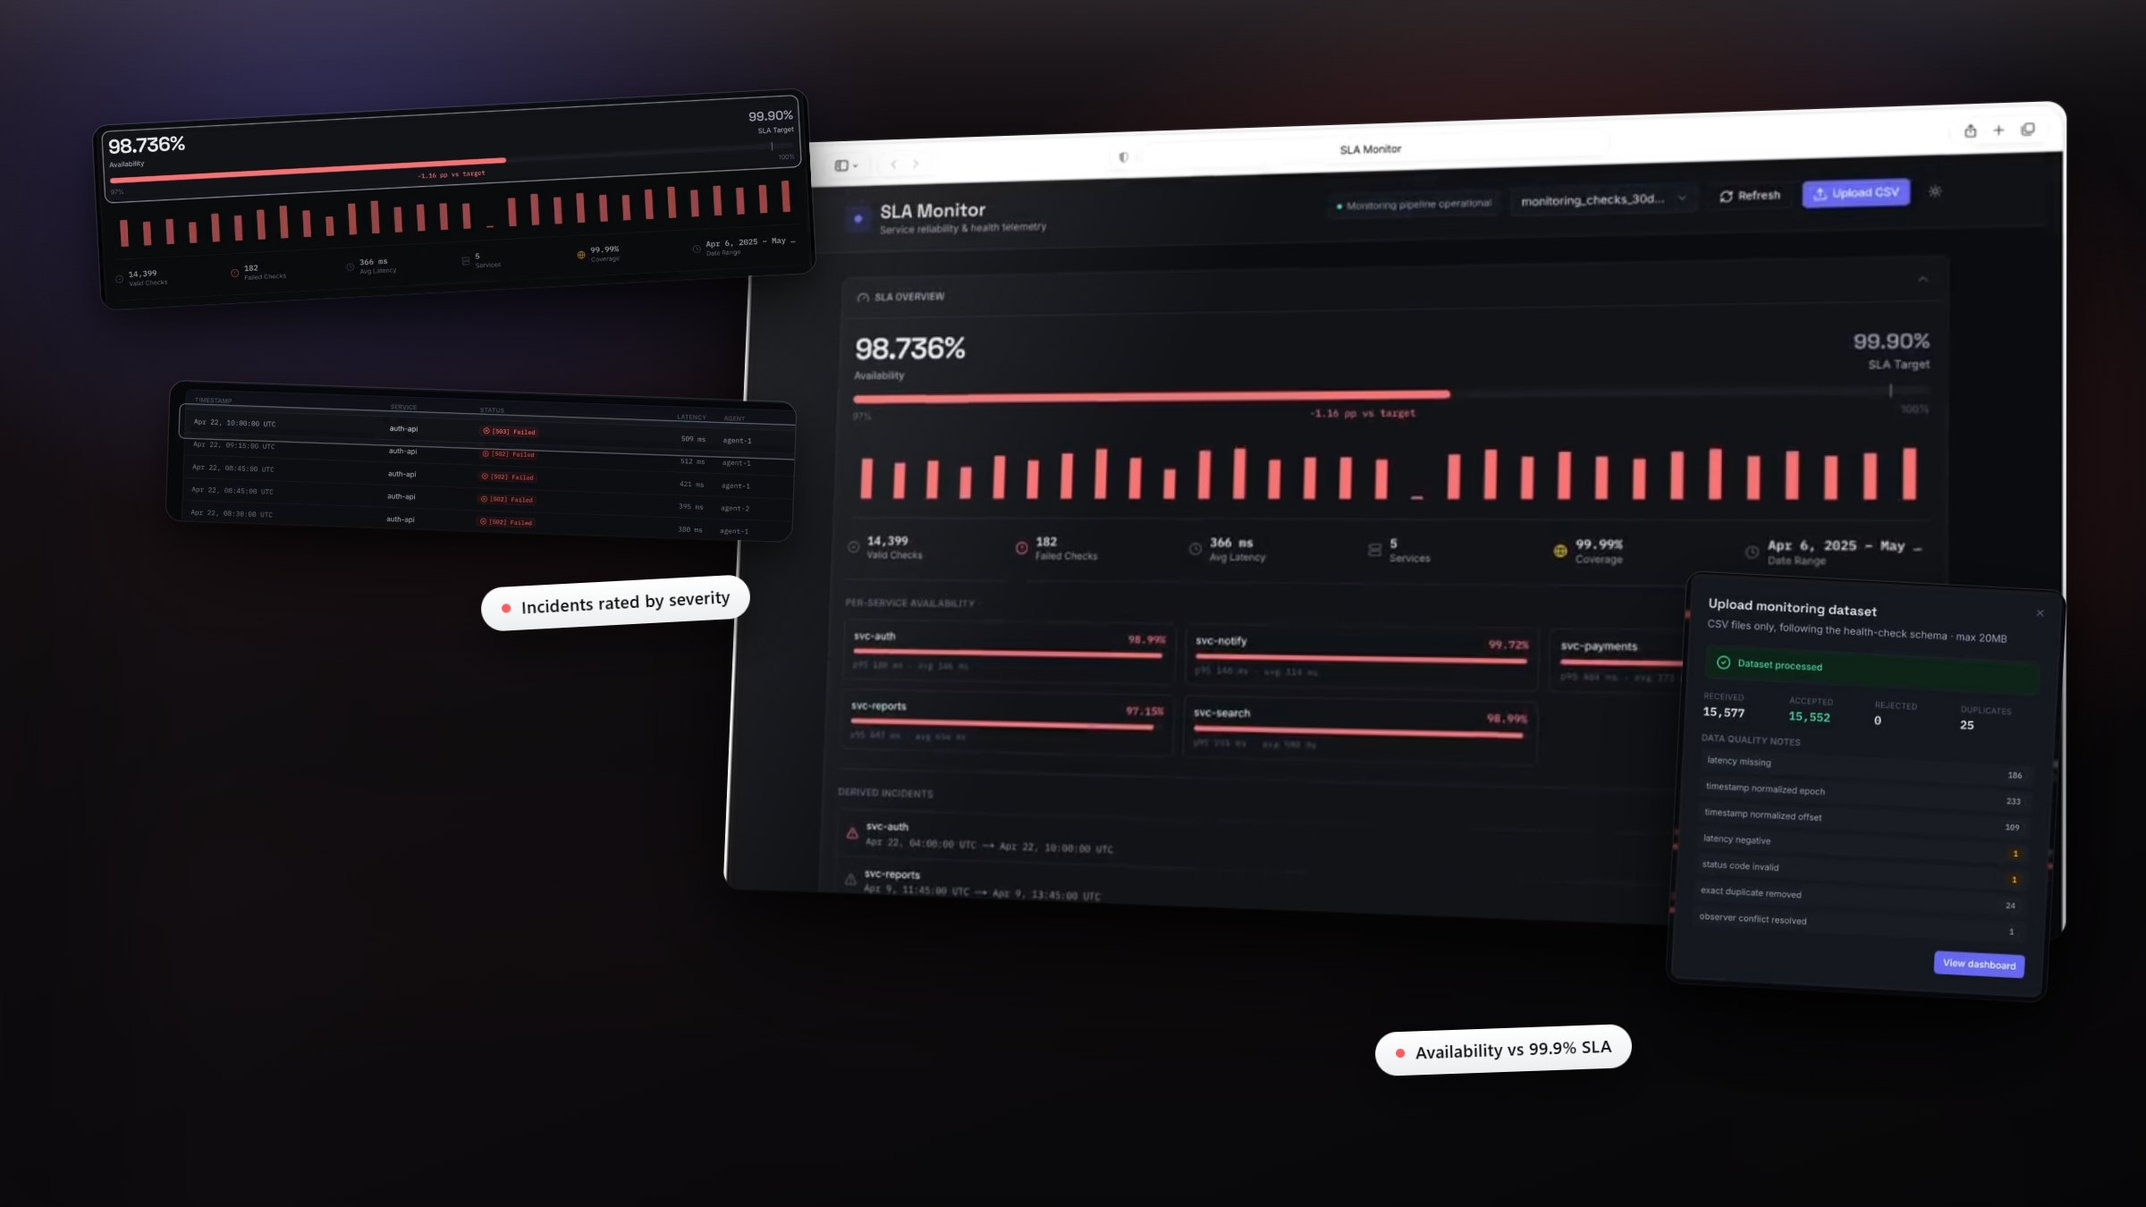
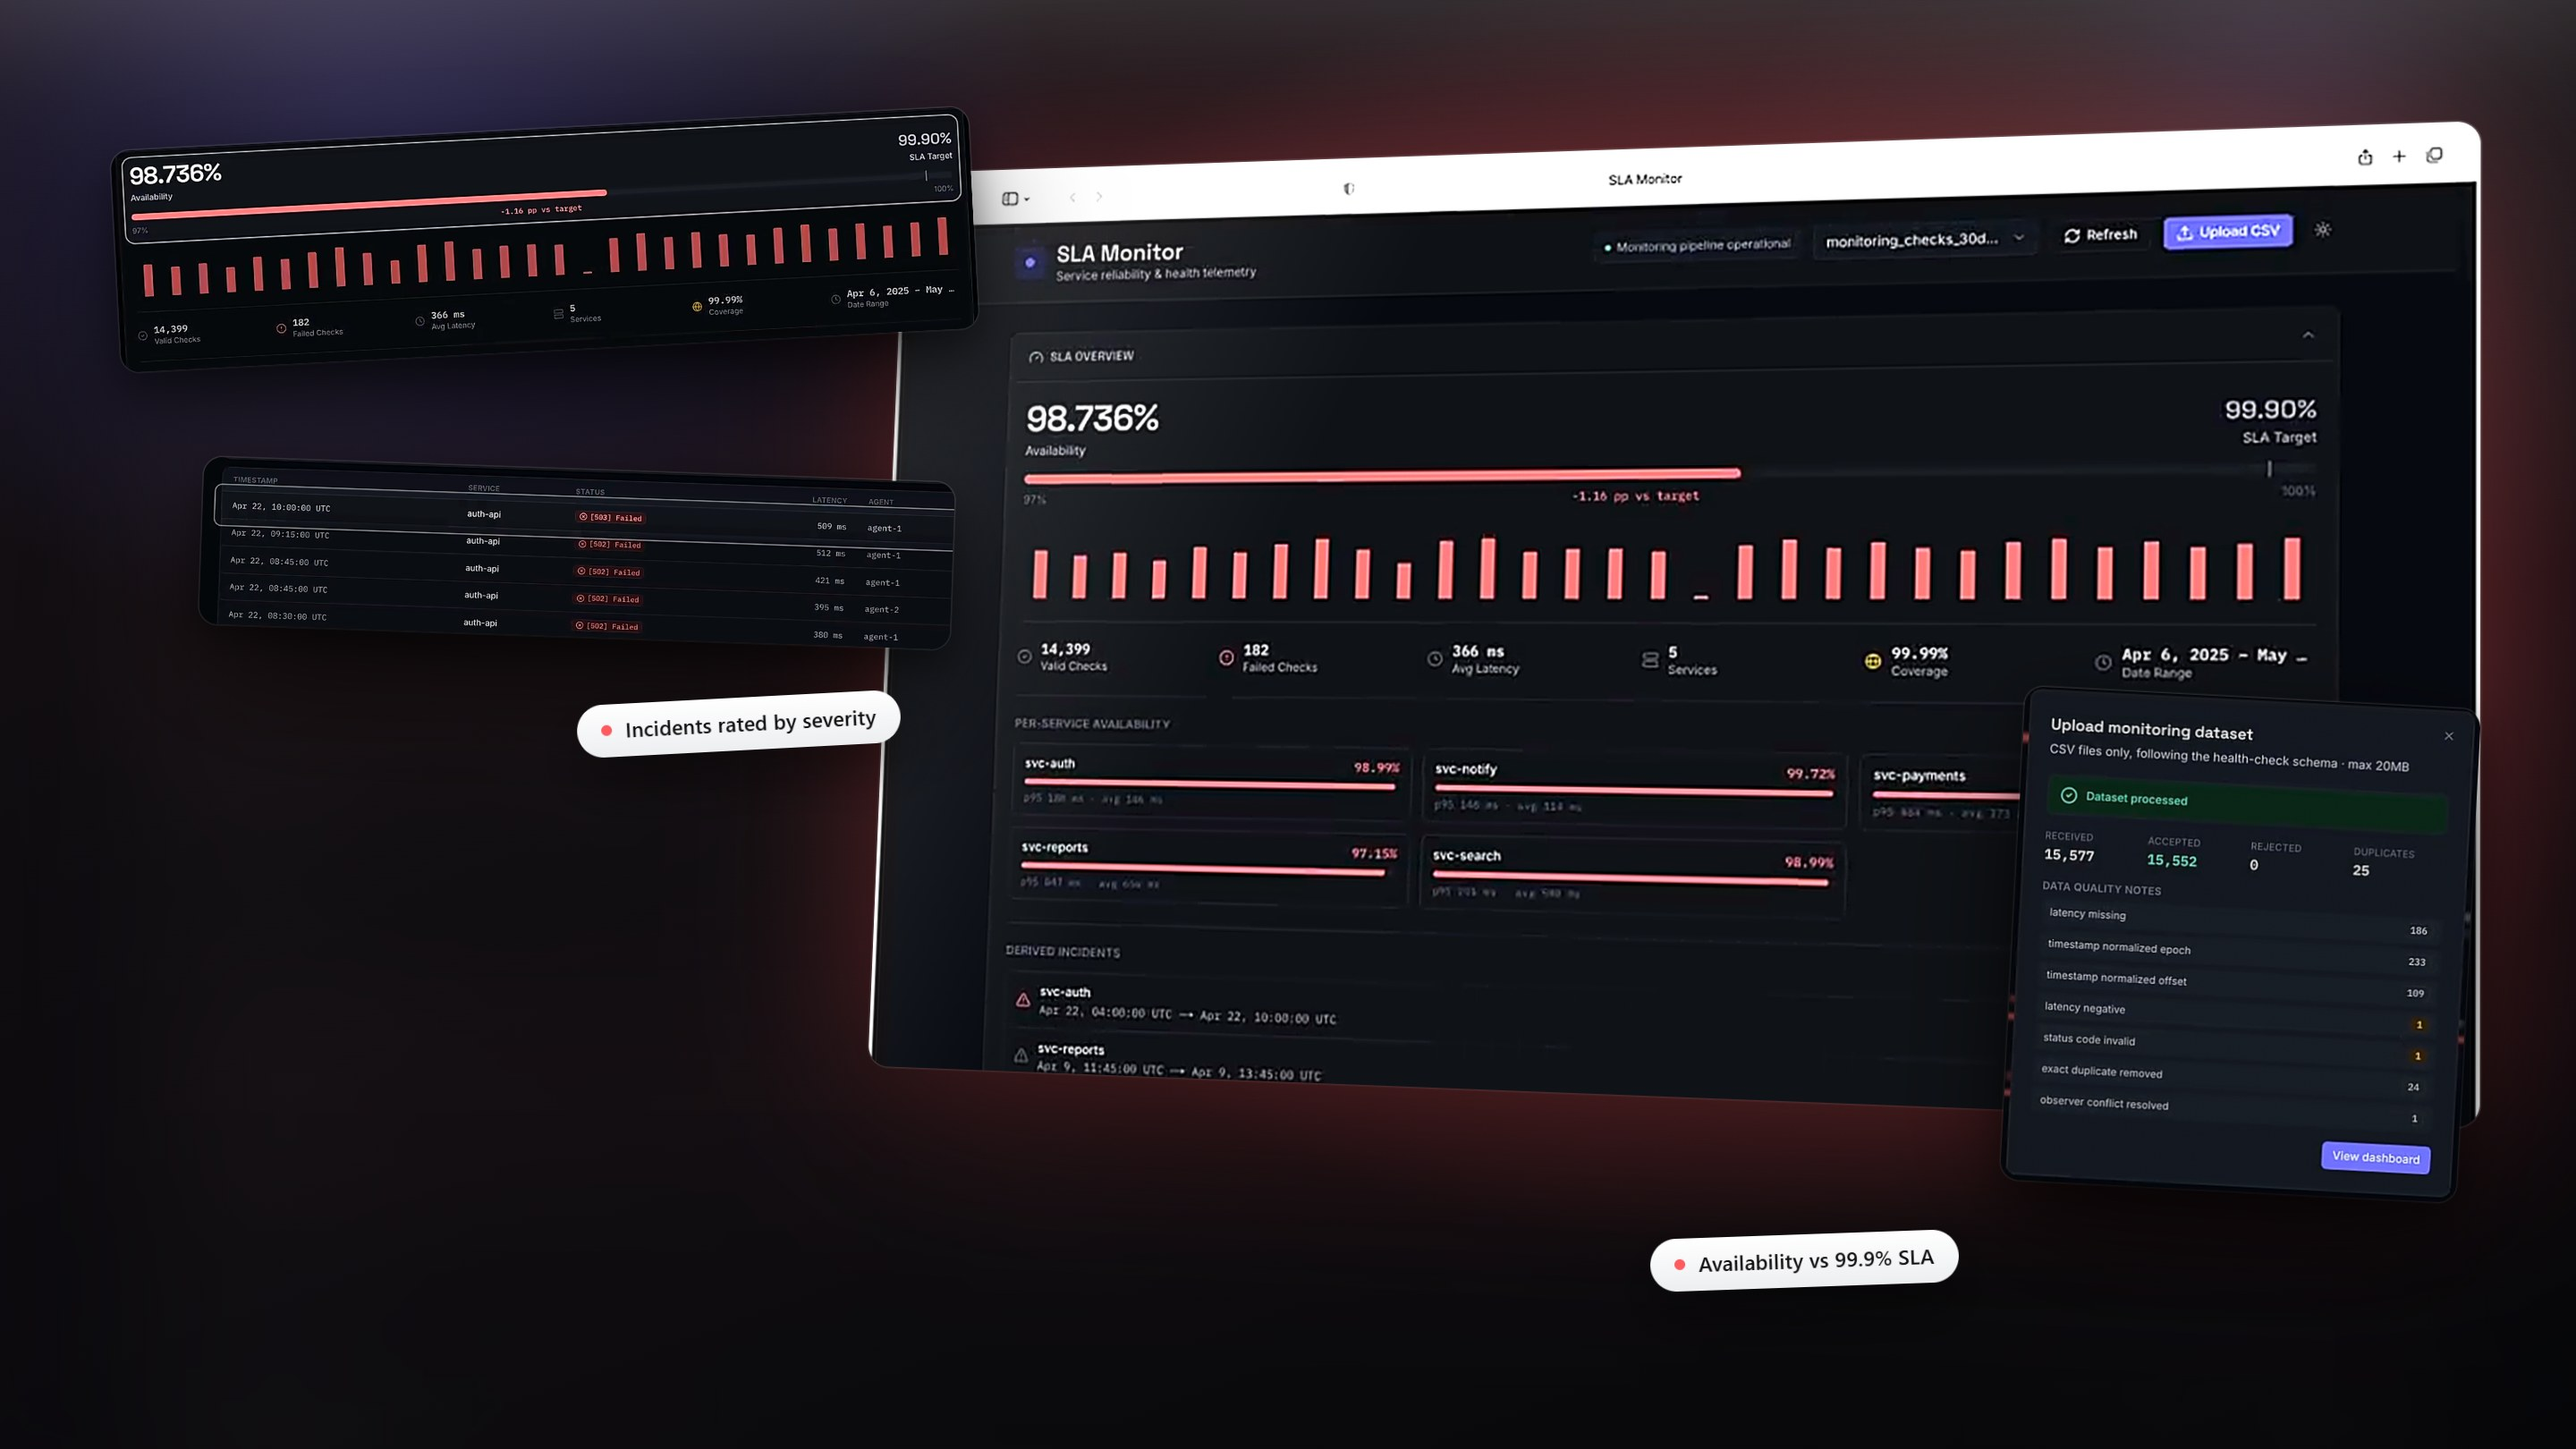
Brighten and sharpen the work showcase images
All five showcase images are re-rendered at 2880x1620 with sharpened
screens, stronger glows in each project's colour and a replacement
generic feature card on BillSwift. The slides use a new svc-bright
overlay that only shades the bottom-left behind the text, so the screens
keep their full brightness while the heading and description stay
readable.

diff --git a/index.html b/index.html
@@ -99,7 +99,7 @@
           its film to see the real product.</p>
       </div>
       <div class="svc-track"><div class="svc-sticky">
-        <article class="svc">
+        <article class="svc svc-bright">
           <img src="/work/kk-jewels-showcase.jpg" alt="KK Jewels Silver Studio website on desktop and phone" class="showcase" loading="lazy" />
           <div class="svc-body">
             <h3>KK Jewels Silver Studio</h3>
@@ -108,7 +108,7 @@
             <a href="/work/S1-01.mp4" class="reach" data-play="/work/S1-01.mp4" data-name="KK Jewels Silver Studio">Watch the film <svg><use href="#mark"/></svg></a>
           </div>
         </article>
-        <article class="svc">
+        <article class="svc svc-bright">
           <img src="/work/slotly-ai-showcase.jpg" alt="Slotly AI booking platform with its assistant, calendar and booking confirmation" class="showcase" loading="lazy" />
           <div class="svc-body">
             <h3>Slotly AI</h3>
@@ -117,7 +117,7 @@
             <a href="/work/S2-01.mp4" class="reach" data-play="/work/S2-01.mp4" data-name="Slotly AI">Watch the film <svg><use href="#mark"/></svg></a>
           </div>
         </article>
-        <article class="svc">
+        <article class="svc svc-bright">
           <img src="/work/ultra-doc-showcase.jpg" alt="Ultra Doc document intelligence app with a parsed document and grounded answers" class="showcase" loading="lazy" />
           <div class="svc-body">
             <h3>Ultra Doc</h3>
@@ -126,7 +126,7 @@
             <a href="/work/S2-03.mp4" class="reach" data-play="/work/S2-03.mp4" data-name="Ultra Doc">Watch the film <svg><use href="#mark"/></svg></a>
           </div>
         </article>
-        <article class="svc">
+        <article class="svc svc-bright">
           <img src="/work/sla-monitor-showcase.jpg" alt="SLA Monitor dashboard with availability, incident logs and CSV upload" class="showcase" loading="lazy" />
           <div class="svc-body">
             <h3>SLA Monitor</h3>
@@ -135,7 +135,7 @@
             <a href="/work/S2-02.mp4" class="reach" data-play="/work/S2-02.mp4" data-name="SLA Monitor">Watch the film <svg><use href="#mark"/></svg></a>
           </div>
         </article>
-        <article class="svc">
+        <article class="svc svc-bright">
           <img src="/work/billswift-showcase.jpg" alt="BillSwift billing screen with stock figures and keyboard shortcuts" class="showcase" loading="lazy" />
           <div class="svc-body">
             <h3>BillSwift</h3>

diff --git a/src/styles/main.css b/src/styles/main.css
@@ -203,6 +203,13 @@ button { font: inherit; color: inherit; background: none; border: 0; cursor: poi
 .svc > img, .svc > video { position: absolute; inset: 0; width: 100%; height: 100%; object-fit: cover; background: #000; }
 /* still showcase images keep the devices (right side) in view on narrow screens */
 .svc > img.showcase { object-position: 75% 50%; }
+/* bright showcase: shade only the bottom-left corner where the text sits, so the screens keep their full brightness */
+.svc.svc-bright::after {
+  background:
+    radial-gradient(120% 90% at 0% 100%, rgba(0,0,0,.88) 0%, rgba(0,0,0,.6) 32%, rgba(0,0,0,.18) 55%, transparent 72%),
+    linear-gradient(to top, rgba(0,0,0,.45), transparent 30%);
+}
+.svc.svc-bright .svc-body { text-shadow: 0 2px 18px rgba(0,0,0,.55); }
 .svc::after { content: ''; position: absolute; inset: 0; background: linear-gradient(to top, rgba(0,0,0,.9) 0%, rgba(0,0,0,.62) 45%, rgba(0,0,0,.3) 100%); }
 .svc-body { position: absolute; left: var(--pad); bottom: 40px; z-index: 1; max-width: 640px; }
 .svc h3 { font-size: clamp(40px, 4.17vw, 60px); font-weight: 600; line-height: 1; letter-spacing: var(--track); margin-bottom: 16px; }
